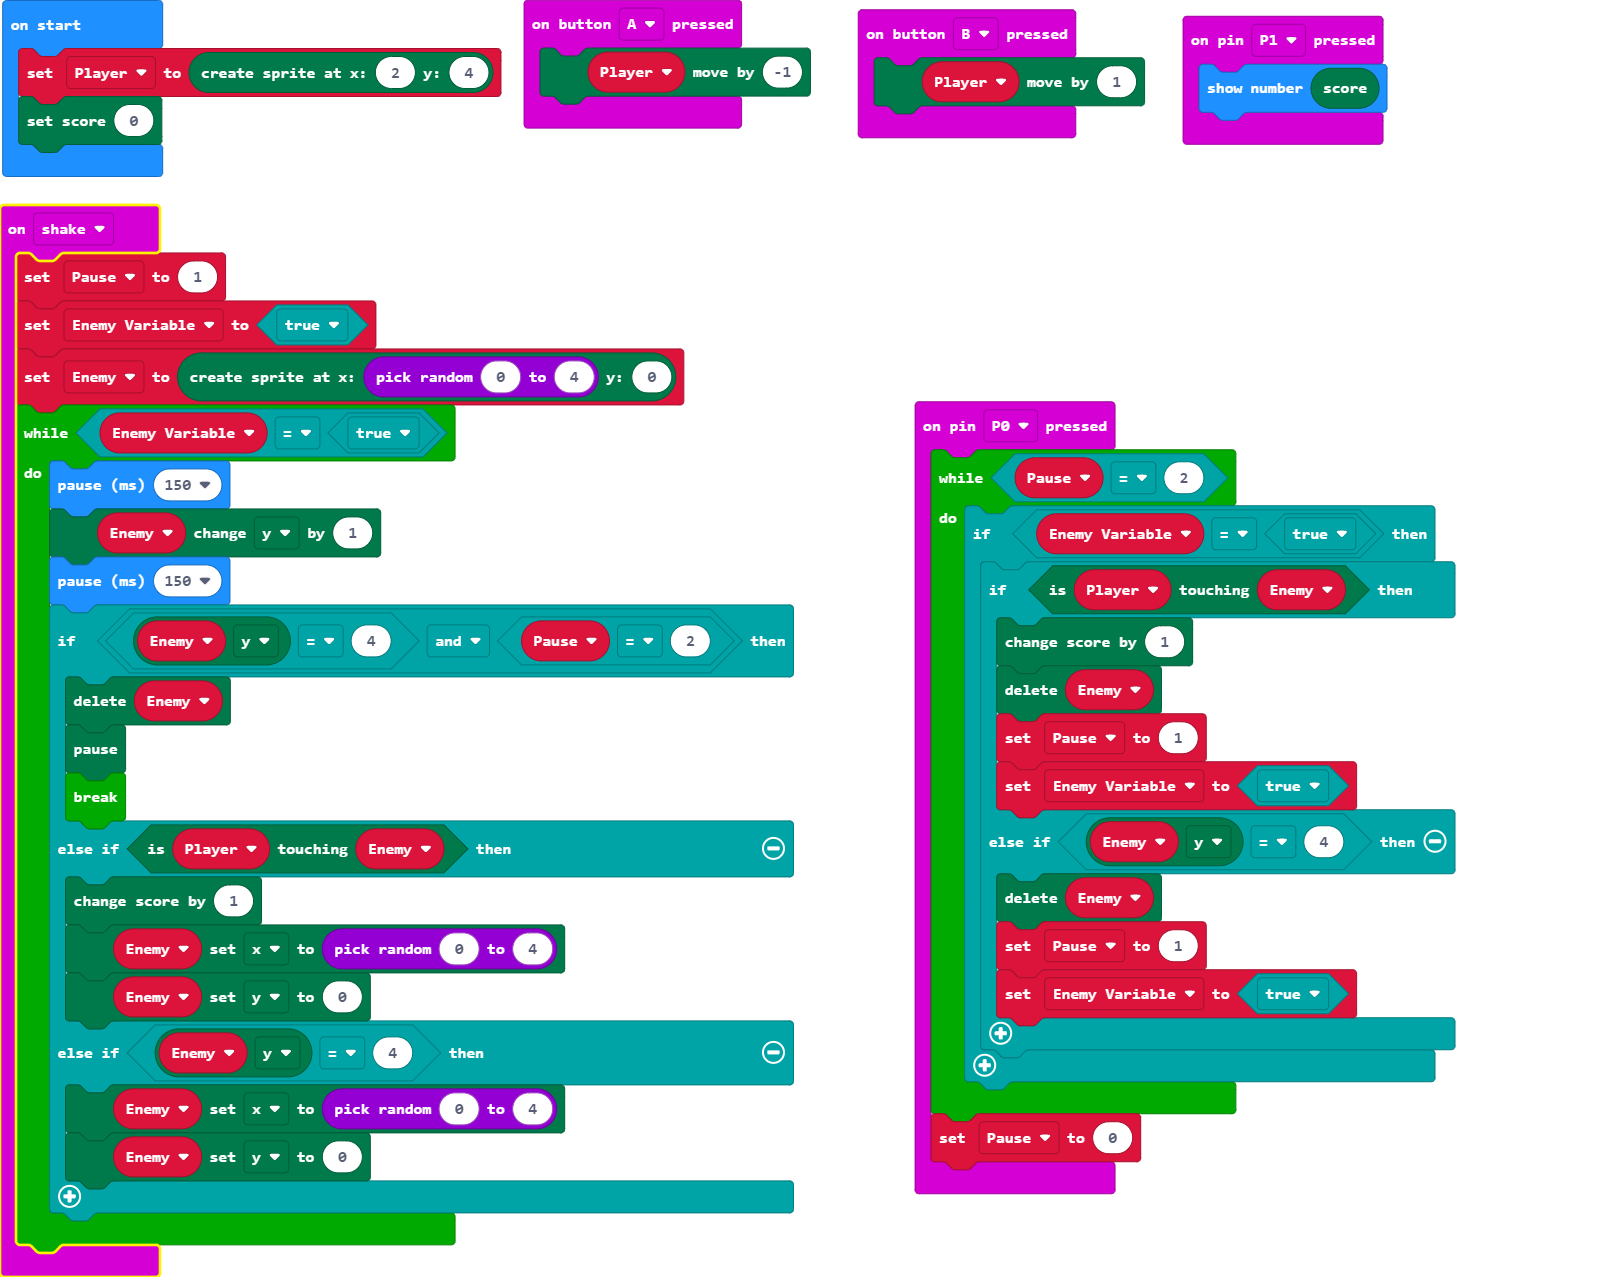
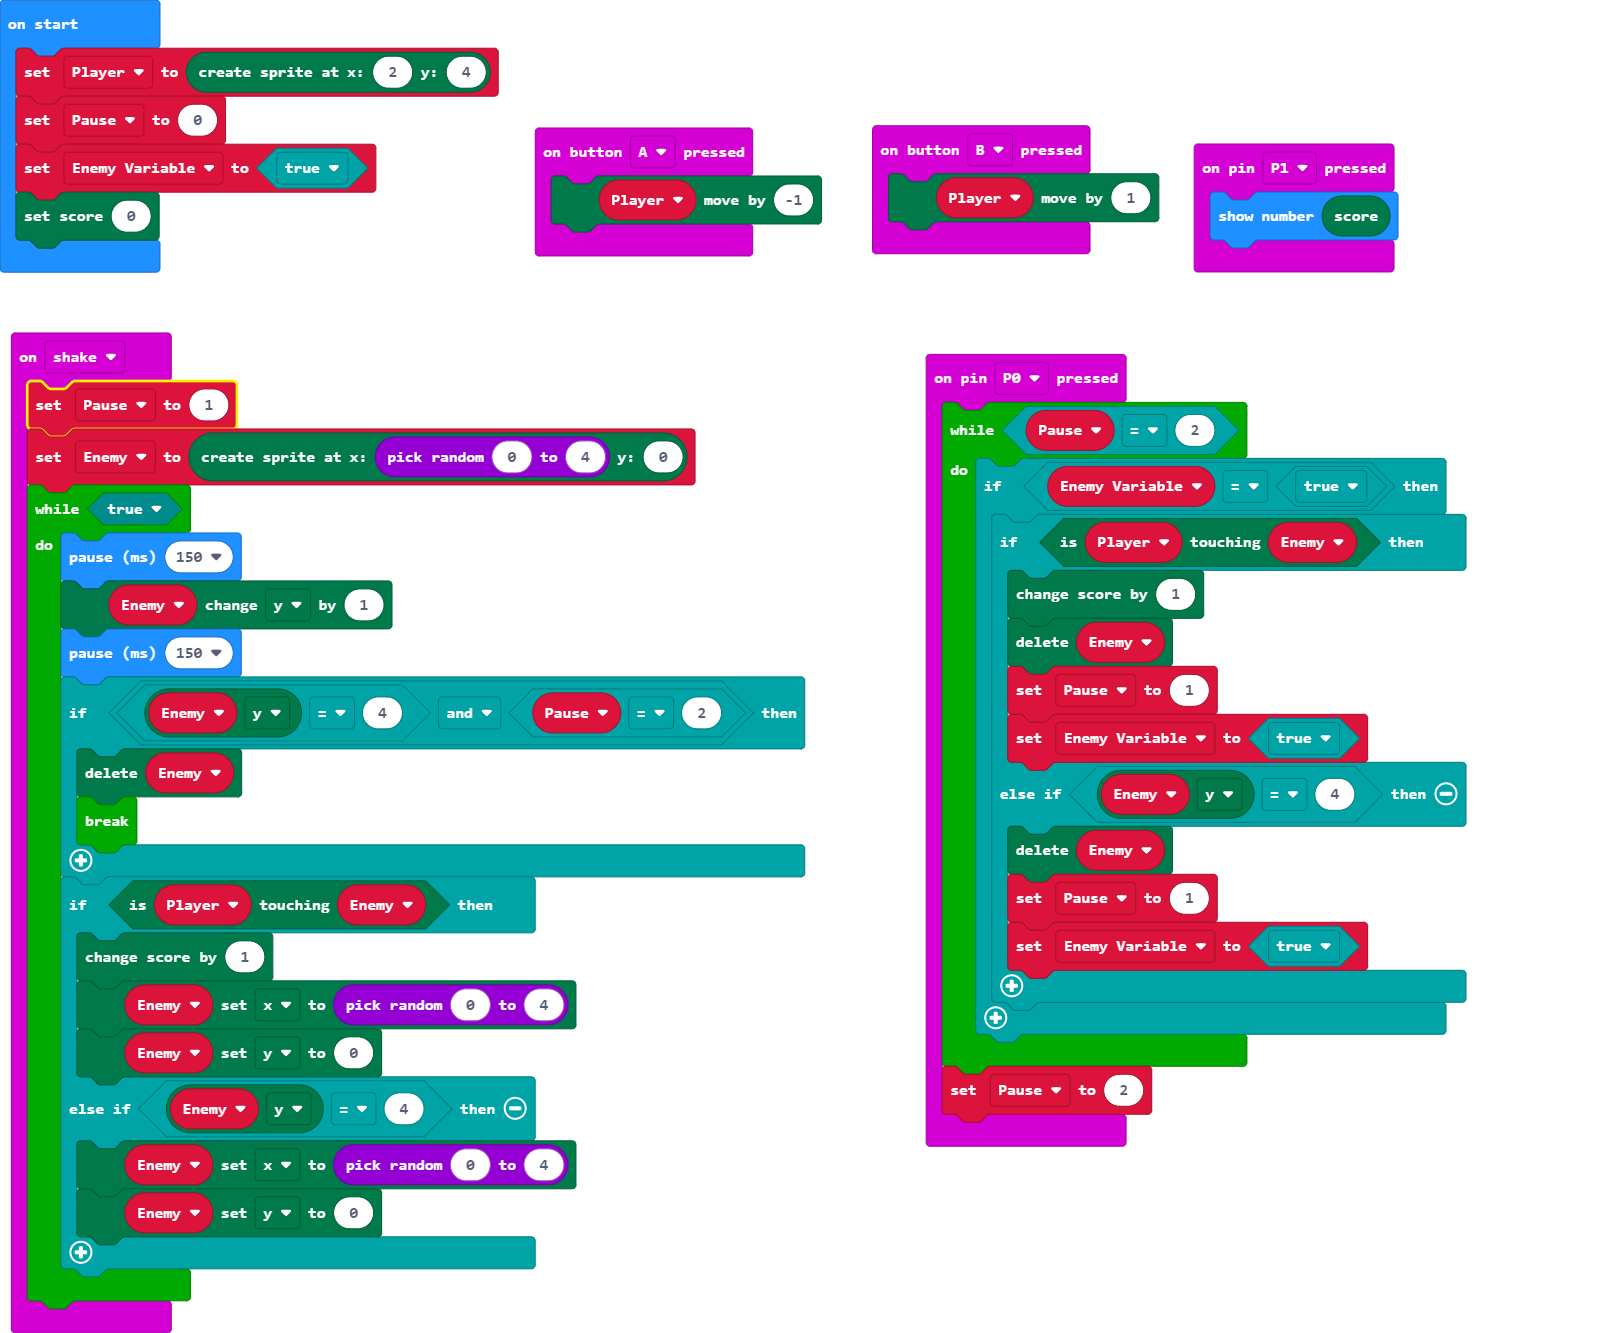
Update main.blocks, main.ts

diff --git a/main.ts b/main.ts
@@ -13,7 +13,7 @@ input.onPinPressed(TouchPin.P0, function () {
             }
         }
     }
-    Pause = 0
+    Pause = 2
 })
 input.onButtonPressed(Button.A, function () {
     Player.move(-1)
@@ -26,17 +26,16 @@ input.onPinPressed(TouchPin.P1, function () {
 })
 input.onGesture(Gesture.Shake, function () {
     Pause = 1
-    Enemy_Variable = true
     Enemy = game.createSprite(randint(0, 4), 0)
-    while (Enemy_Variable == true) {
+    while (true) {
         basic.pause(150)
         Enemy.change(LedSpriteProperty.Y, 1)
         basic.pause(150)
         if (Enemy.get(LedSpriteProperty.Y) == 4 && Pause == 2) {
             Enemy.delete()
-            game.pause()
             break;
-        } else if (Player.isTouching(Enemy)) {
+        }
+        if (Player.isTouching(Enemy)) {
             game.addScore(1)
             Enemy.set(LedSpriteProperty.X, randint(0, 4))
             Enemy.set(LedSpriteProperty.Y, 0)
@@ -51,4 +50,6 @@ let Enemy_Variable = false
 let Pause = 0
 let Player: game.LedSprite = null
 Player = game.createSprite(2, 4)
+Pause = 0
+Enemy_Variable = true
 game.setScore(0)
